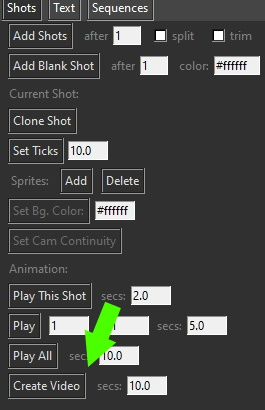
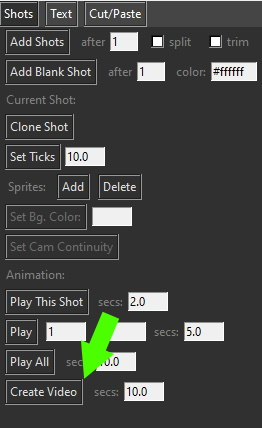
intermin checkin

Changed region(s): [[0.0, 0.0, 0.8855, 0.9659], [0.6718, 0.0585, 0.9771, 0.2049]]

diff --git a/comiola/faq/faq.htm b/comiola/faq/faq.htm
@@ -75,7 +75,11 @@ comiola faq
 <h4> Getting started </h4> 
 
 <div class="index">
-<a href="#tutorial"> Comiola Tutorials</a>
+<a href="#tutorial"> Comiola Tutorial1: Projects, Shots, and Camera</a>
+</div>
+
+<div class="index">
+<a href="#tutorial2"> Comiola Tutorial2: Animating Sprites</a>
 </div>
 
 <div class="index">
@@ -86,7 +90,7 @@ comiola faq
 
 <div id="tutorial" class="entry">
 <div class="entrytitle">
-Comiola Tutorial: Shots and Camera
+Comiola Tutorial: Projects, Shots, and Cameras
 </div>
 
 <p>
@@ -98,7 +102,7 @@ the folder. The file name is "queenofnight.jpg".
 </p>
 
 To create the new project, click the File button in the upper left corner
-of the editor. The file drop pane will appear.
+of the editor. The file dropdown pane will appear.
 <p>
 <img src="filedropdown.jpg">
 </p>
@@ -110,8 +114,8 @@ a new (empty) project. The display next to the file button changes to
 </p>
 The project file is named "MyProject.cprj" 
 (all project files end with ".cprj").
-To reopen this project after you've exited Comiloa, 
-click File/Open and select that file from the File open dialog.
+To reopen this project after you've exited and then restarted Comiloa, 
+click File/Open and select that file from the File Open dialog.
 <p>
 To add the first shot, click the "Add Shots" button in the editor control 
 panel.
@@ -134,17 +138,17 @@ sphinx. Fiddle with the camera controls until you get something like this:
 What's this shot actually look like? Here's another look at the control 
 panel of the editor. 
 <p>
-<img src="addshots2.jpg">
+<img src="playthisshot.jpg">
 </p>
              
 Click the "Play this Shot" button. You'll see a 2-second shot of the
 sphinx. Not very interesting, so let's add a second shot.
 In the editor control panel, click the "Clone Shot" button: 
 <p>
-<img src="addshots3.jpg">
+<img src="cloneshot.jpg">
 </p>
 
-We're now on the second. Move and resize the camera so it looks like
+We're now on the second shot. Move and resize the camera so it looks like
 this.
 
 <p>
@@ -256,10 +260,23 @@ panel.
 If your project is named "MyProject", this will create the file
 "MyProject.mp4" in the project directory.
 
-<div id="tutorial1" class="entry">
+<p>
+The next tutorial builds on this one, so you should save the project.
+When you close Comiola by clicking the X in the top right corner,
+you'll be asked if you want to save the project: just click yes in
+the popup dialog. Or you can click the File button in the top
+control panel and click Save on the dropdown menu.
+<p>
+<img src="filesave.jpg">
+</p>
+
+
+
+<div id="tutorial2" class="entry">
 <div class="entrytitle">
-Comiola Tutorial: Animating Sprites
+Comiola Tutorial2: Animating Sprites
 </div>
+<p>
 
 This tutorial uses 4 new images:
 <p>
@@ -297,18 +314,13 @@ point by clicking Pt: Add on the top control bar.
 <img src="ptadd.jpg">
 </p>
 Click it again to add the third point. Then move and resize the new
-points so the shot looks something like this:
-<p>
-<img src="sprites3.jpg">
-</p>
-
+points so the shot looks something like the picture below.
 <p>
 Tip: to add a point to a path, the path must first have been selected
 (otherwise the Pt: Add button is inactive). To select a path, just 
 click the red square associated with any of the existing points.
 <p>
 
-After moving and resizing the points, the shot should look like this.
 <p>
 <img src="sprites4.jpg">
 </p>
@@ -421,8 +433,9 @@ moves across the background.
 
 <p>
 Try changing the Reps count for the shot to 3. Click the red square for
-the first point in the sprite's animation path, then change the value
-in the Reps box in the top control panel:
+the first point in the sprite's animation path (clicking any point in
+an animation selects it). Reset the value
+in the Reps box in the top control panel to 3.
 <p>
 <img src="reps.jpg">
 </p>

diff --git a/comiola/comiola.py b/comiola/comiola.py
@@ -2,6 +2,9 @@ import tkinter as tk
 import tkinter.filedialog
 import tkinter.messagebox as msgbox
 
+import os
+import sys
+
 import scripts
 import controls
 from display import Display
@@ -25,7 +28,7 @@ import uisequences
 display = None
 # the tabcntrl
 tabcntrl = None
-# file dropdown control; and visibility status
+# file dropdown control
 file_dropdown = None
 # menu bar
 menu = None
@@ -81,11 +84,16 @@ def on_tab_select(name):
     elif name == 'Text':
         display.sel_ani = None
         display.sel_pt = None
+    elif name == 'Cut/Paste':
+        display.sel_te = None
+        display.sel_ani = None
+        display.sel_pt = None
     validate_view()
     return True
 
 def set_fdd_visible(visible):
-    global menu, fdd_visible
+    # show/hide the File button's drop down menu
+    global menu
     menu.update()
     if visible:
         file_dropdown.place(x=0,y=menu.winfo_y())
@@ -124,7 +132,7 @@ def make_gui(win):
             bg=col_cntrl_bg)
     tabcontainer.grid(row=1,column=1,rowspan=2,sticky=(tk.NE+tk.SW))
     tabcntrl = TabCntrl(tabcontainer,
-            ["Shots","Text","Sequences"],
+            ["Shots","Text","Cut/Paste"],
             [uishots.make_shotcntrls, 
                 uitext.make_textcntrls,
                 uisequences.make_seqcntrls],
@@ -152,23 +160,27 @@ def make_gui(win):
     win.columnconfigure(0, weight=1)
     win.rowconfigure(2, weight=1)
 
+usage = \
+"""
+usage:
+    python comiola.py [project_filepath_option]
+"""
 
 def main():
+    if len(sys.argv) > 2:
+        print('%s%s' % ('unrecognized arguments',usage))
+        exit(1)
     make_gui(win)
+    # start dev code. Comment out before checkin!
+    sys.argv.append('C:/Users/Al/mycomics/cp/MyProject.cprj')
+    # end dev code
+    if len(sys.argv) == 2:
+        scripts.open_project(*os.path.split(sys.argv[1]), False)
+        uibanner.proj_dir.set(scripts.proj_filepath)
+        display.edit_shot(0)
     validate_view()
     win.mainloop()
 
-# start dev code. This assumes you built a project and want to go
-# straight to it (avoids the hassle of File/Open).
-def dev():
-    make_gui(win)
-    scripts.open_project('C:/Users/Al/mycomics/cp','MyProject',False)
-    uibanner.proj_dir.set(scripts.proj_filepath)
-    display.edit_shot(0)
-    win.mainloop()
-# end dev code
-
 if __name__ == '__main__':
-    #main()
-    dev()
+    main()
 

diff --git a/comiola/uitext.py b/comiola/uitext.py
@@ -115,7 +115,7 @@ def make_textcntrls(container):
         ],
         [
             Lab('Color:','cntrls',[4,1]),
-            Entry(fontcolor,6,[1,4]),
+            Entry(fontcolor,8,[1,4]),
             But('Apply',text_apply,'cntrls',[4,4])
         ],
         [
@@ -135,8 +135,8 @@ def make_textcntrls(container):
         ],
         [
             ImgBut('colorbg',on_colorbg,[2,2]),
-            Lab('Color:','cntrls',[4,1]),
-            Entry(colorbg,6,[1,4]),
+            Lab('Color:','cntrls',[7,1]),
+            Entry(colorbg,8,[1,4]),
         ],
         [
             But('Delete Selected',delete_te,'cntrls',[4,4])

diff --git a/comiola/display.py b/comiola/display.py
@@ -234,10 +234,10 @@ class Display:
                 self.draw_spr(pt,ip.get(spr.fnlst[0],'RGBA'),img_dst)
         # draw the text element controllers (will draw text
         # as well)
+        draw_pil = ImageDraw.Draw(img_dst)
         for te in s.textels:
             te.cntrl.draw(draw_pil, img_dst)
         # draw the sprite controlls
-        draw_pil = ImageDraw.Draw(img_dst)
         for spr in s.sprites:
             #for pt in spr.path:
             spr.cntrl.draw(draw_pil)

diff --git a/comiola/uishots.py b/comiola/uishots.py
@@ -44,7 +44,7 @@ def validate_view():
         shot_bgcolor.set('#ffffff')
 
     else:
-        add_after.set('%d' % scripts.cnt_shots())
+        add_after.set('%d' % (1 + display.ixshot))
         scr = scripts.script
         vid_secs.set('%.1f' % scr.time)
         if script_secs.get().strip() == '':
